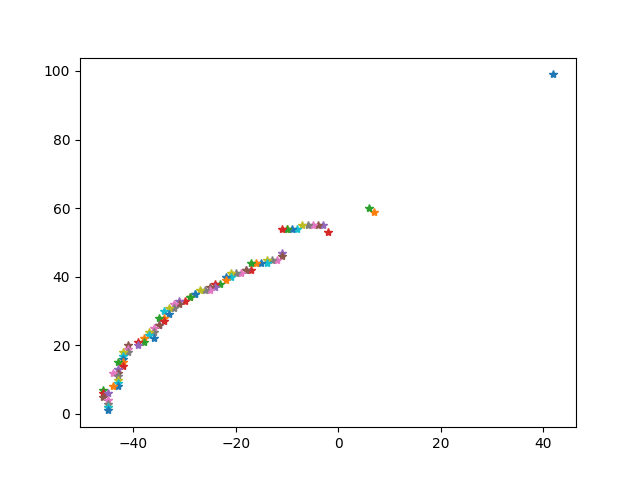
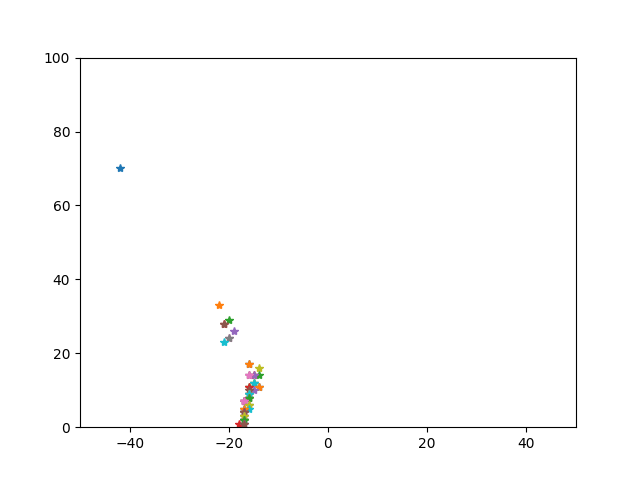
second push

diff --git a/first.py b/first.py
@@ -59,11 +59,16 @@ for angle in range(-90,90,1):
         map1[x+50][y] = 1
         plt.plot(x,y,'*')
         print('x',x,'y',y)
-print(map1)
+    
+map2=np.rot90(map1)
+print(map2)
 
 # 
+plt.xlim([-50,50])
+plt.ylim([0,100])
 plt.savefig("squares.png")
 np.savetxt('text.txt', map1, fmt='%s')
+np.savetxt('text.txt', map2, fmt='%s')
 plt.show()
 # def Keyborad_control():
 #     while True:
